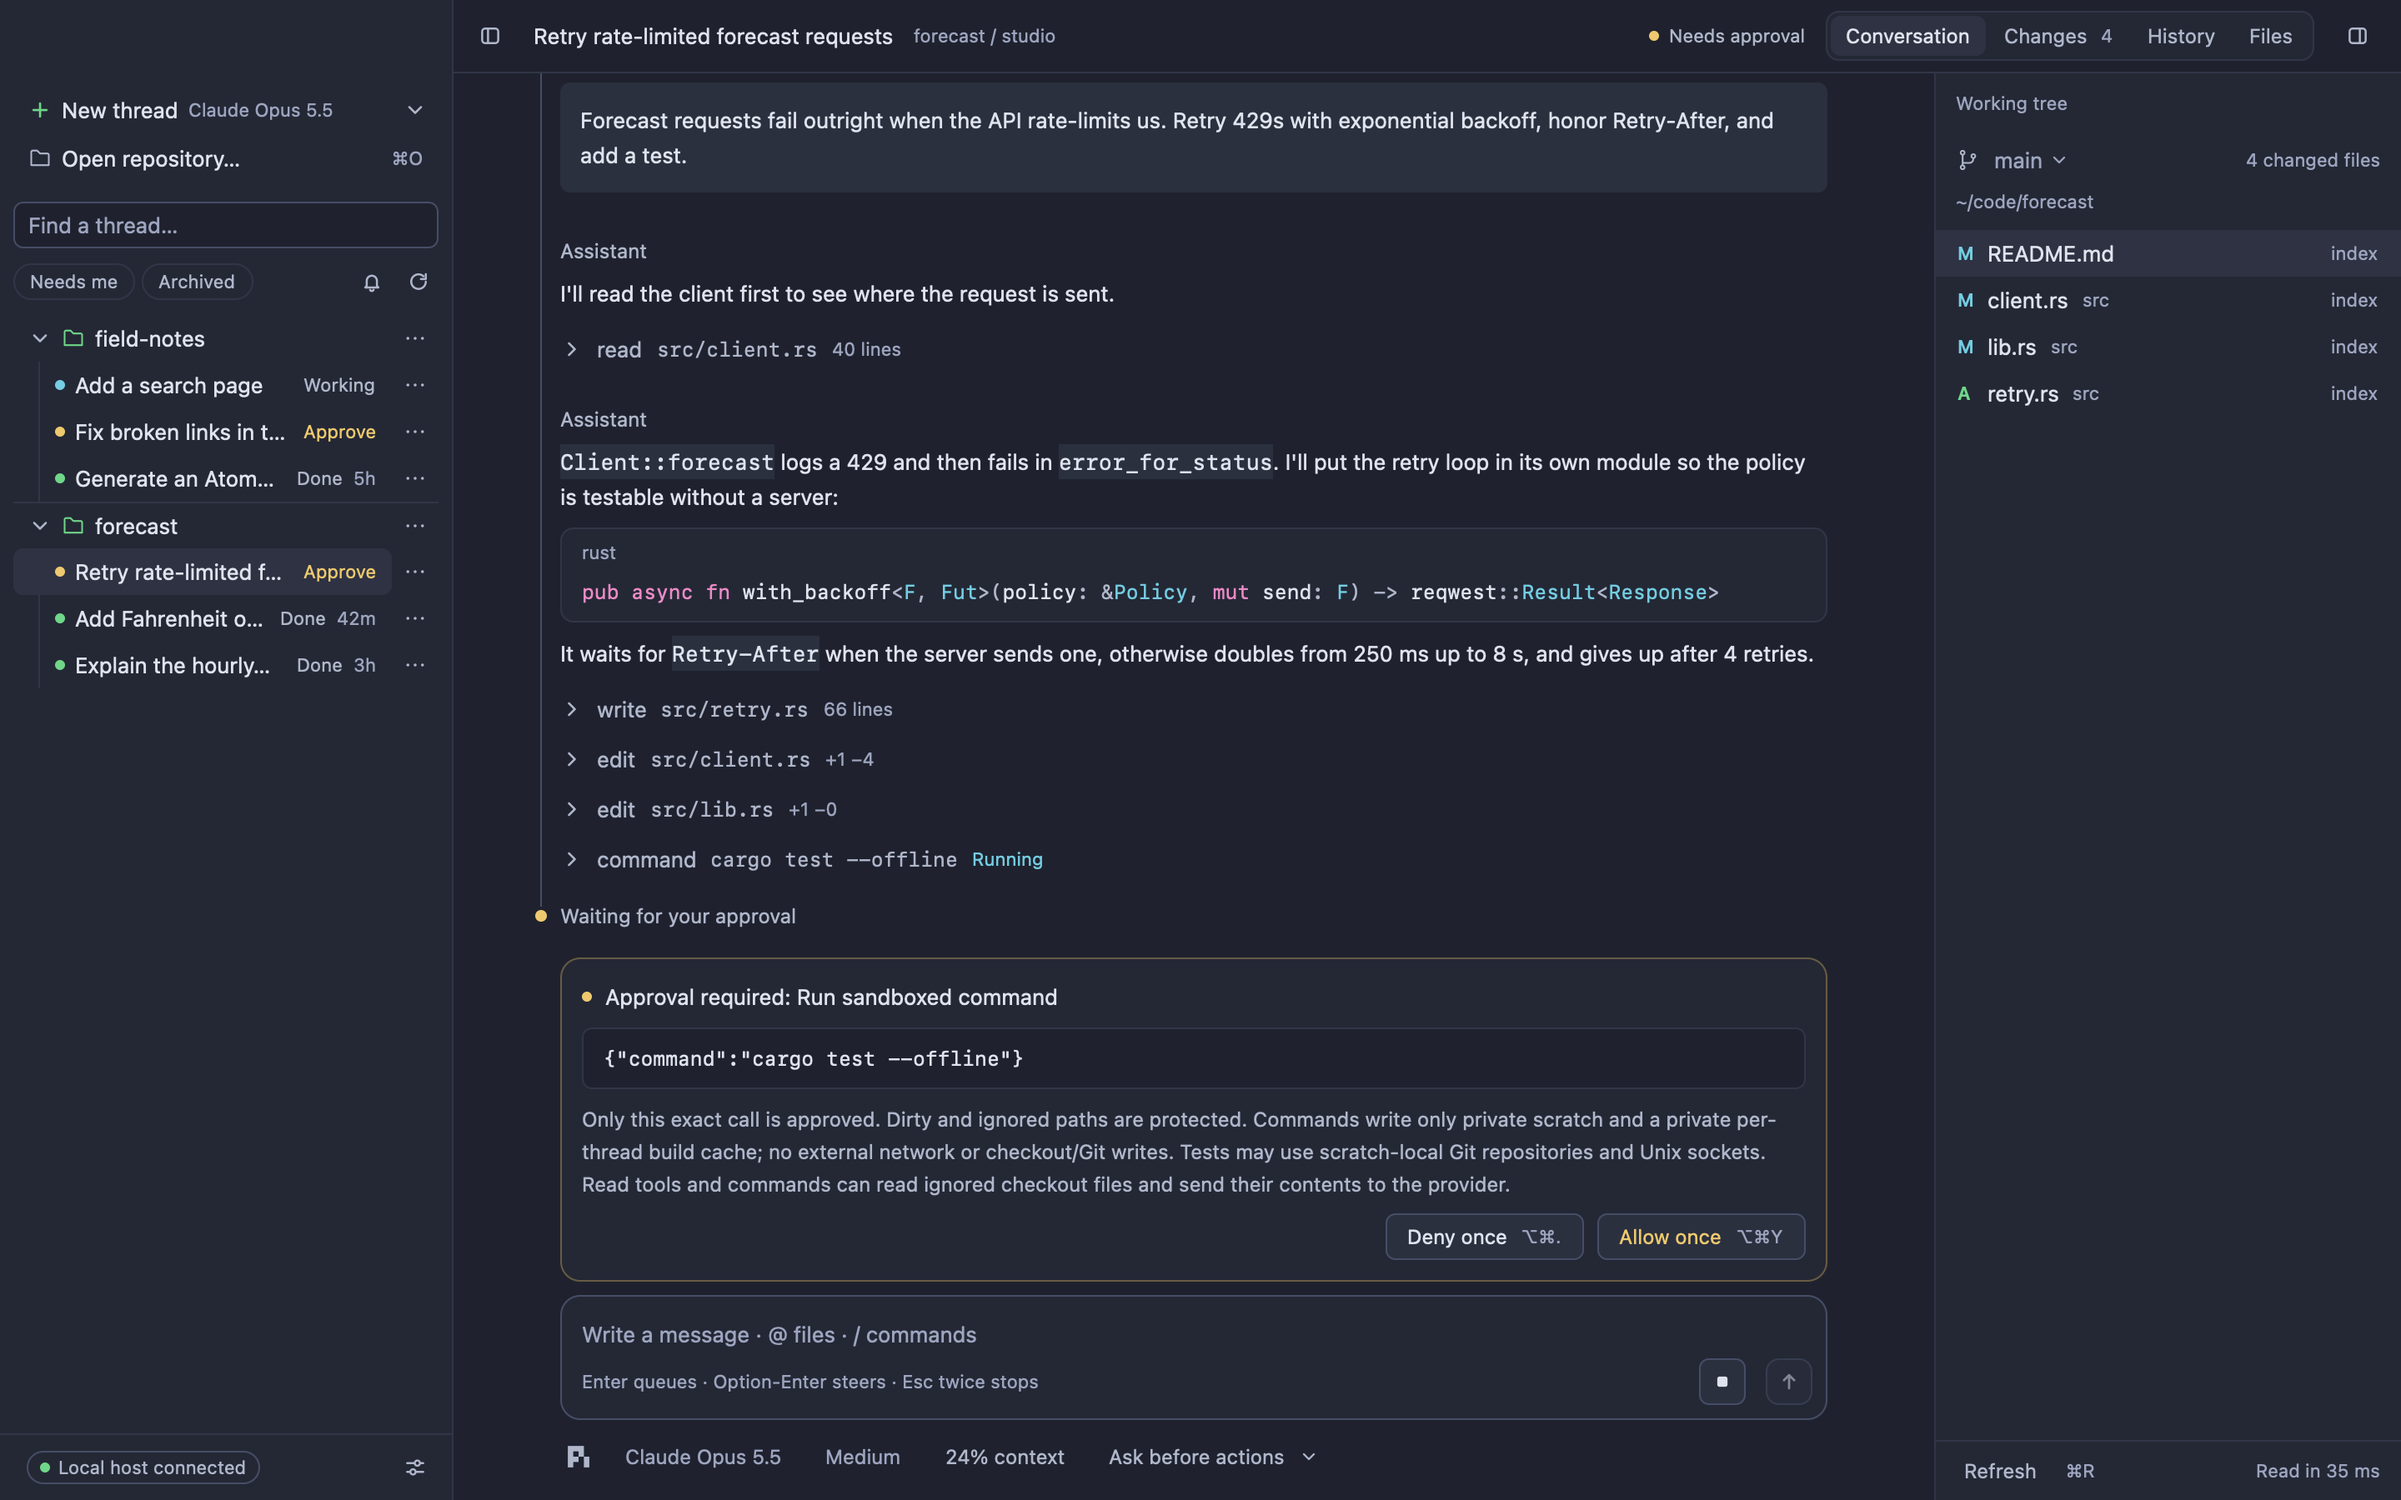
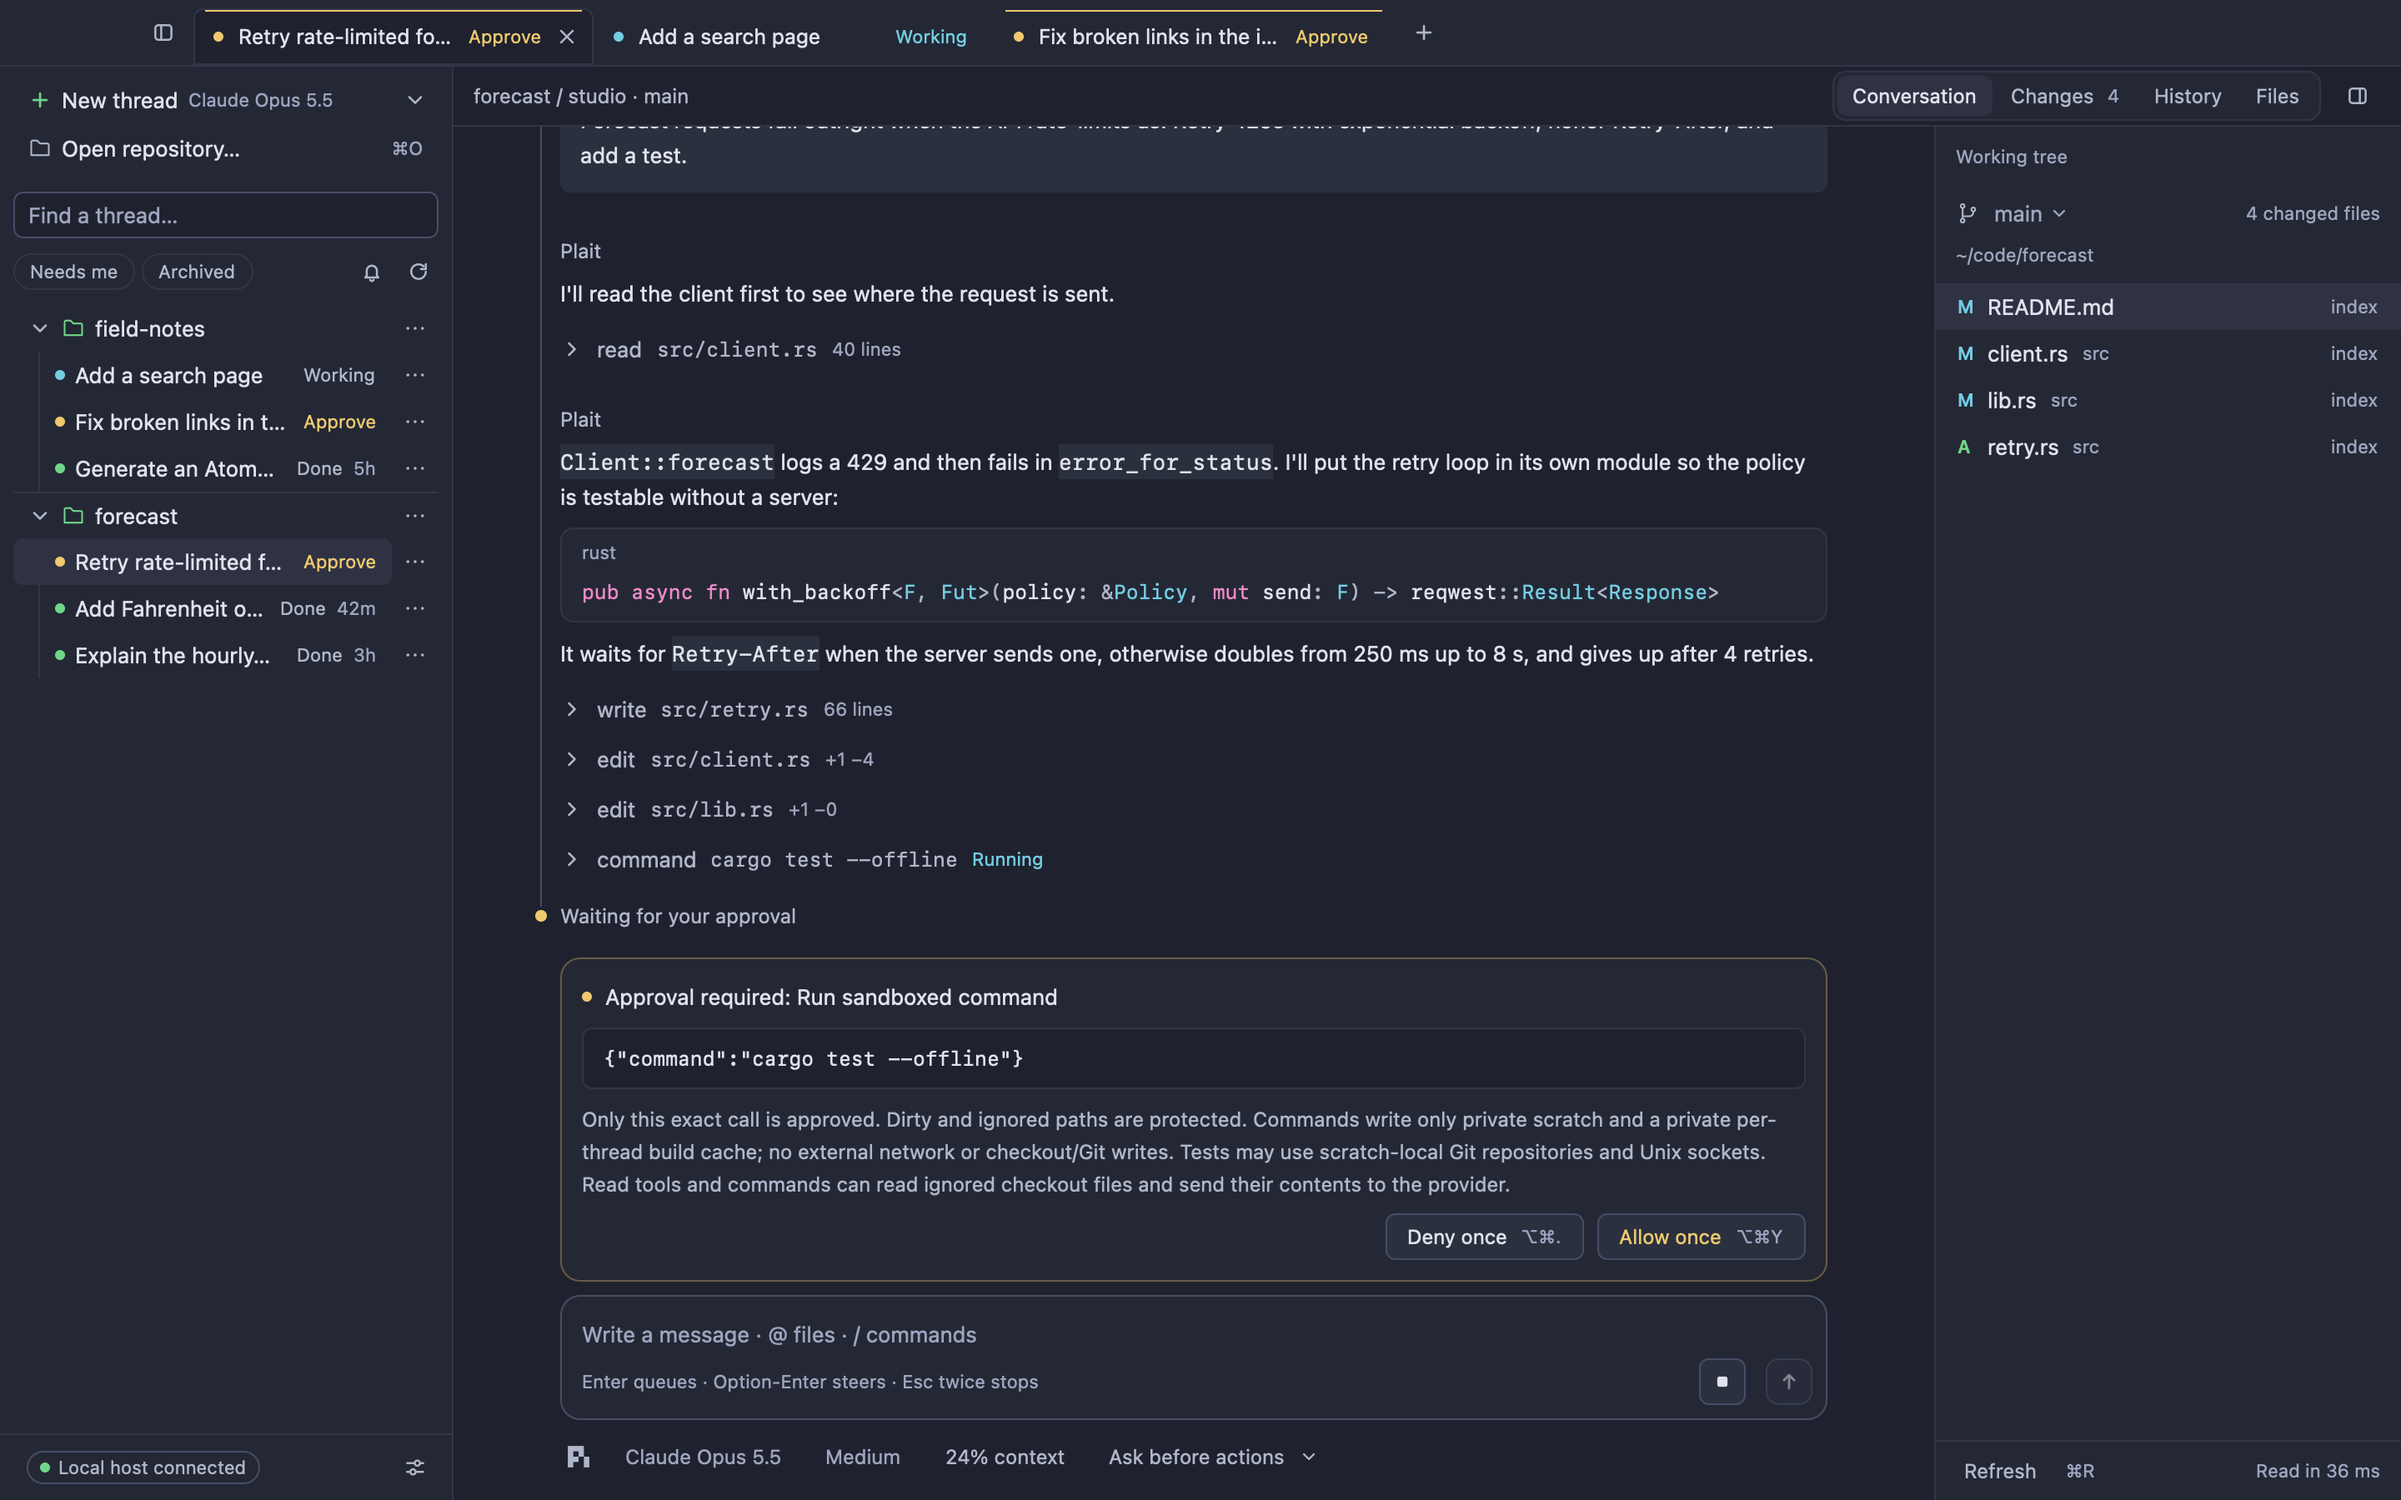
Show tabs in the README pictures
The sample scene the README pictures are drawn from selected its thread
without opening it in a tab, so with tabs the pictures showed an empty
tab row and no row of views. It now opens that thread and the two
sample threads that are working or waiting, as a real window would
have them, and the five pictures are drawn again.

diff --git a/crates/plait/src/ui/snapshot/showcase.rs b/crates/plait/src/ui/snapshot/showcase.rs
@@ -10,6 +10,7 @@
 
 use super::{Harness, git, isolated};
 use gpui::AppContext as _;
+use plait_core::tabs::{CheckoutKey, ThreadTarget};
 use plait_core::{
     host::{
         Approval, ApprovalKind, ApprovalMode, Message, MessageRole, Model, ModelChoice, Snapshot,
@@ -448,6 +449,49 @@ fn threads(checkout: &Path, current: ThreadStatus) -> Vec<ThreadSummary> {
     ]
 }
 
+/// The open thread in front, then the threads that are working or waiting, so
+/// the pictures show the tab row as a real window has it.
+fn open_tabs(plait: &mut crate::ui::Plait) {
+    plait.tabs = Default::default();
+    let mut open: Vec<_> = plait
+        .host
+        .connection
+        .threads
+        .iter()
+        .filter(|thread| {
+            thread.id == THREAD
+                || matches!(
+                    thread.status,
+                    ThreadStatus::Running | ThreadStatus::AwaitingApproval
+                )
+        })
+        .map(|thread| (thread.id.clone(), thread.checkout.clone()))
+        .collect();
+    open.sort_by_key(|(id, _)| id != THREAD);
+    for (id, root) in open {
+        let checkout = CheckoutKey {
+            host: plait.tabs.host.clone(),
+            root,
+            directory: None,
+        };
+        plait
+            .tabs
+            .model
+            .open(
+                ThreadTarget::Existing { id, checkout },
+                Some(plait.host.connection.epoch),
+            )
+            .expect("sample tab");
+    }
+    let front = plait.tabs.model.tabs()[0].id();
+    plait
+        .tabs
+        .model
+        .activate(front)
+        .expect("sample tab in front");
+    plait.refresh_tab_rows();
+}
+
 /// Present a connected host with `snapshot` selected. No socket is opened.
 fn stage(harness: &mut Harness, checkout: &Path, snapshot: Snapshot) {
     let checkout = checkout.to_owned();
@@ -460,6 +504,7 @@ fn stage(harness: &mut Harness, checkout: &Path, snapshot: Snapshot) {
         plait.host.creation.new_model = Some(choice());
         plait.host.connection.threads = threads(&checkout, snapshot.status);
         plait.host.thread.selected = Some(THREAD.into());
+        open_tabs(plait);
         plait.workspace.history = Default::default();
         plait.host.thread.snapshot = Some(Arc::new(snapshot));
         plait.workspace.formatted = Arc::new(plait_core::markdown::Transcript::update(
